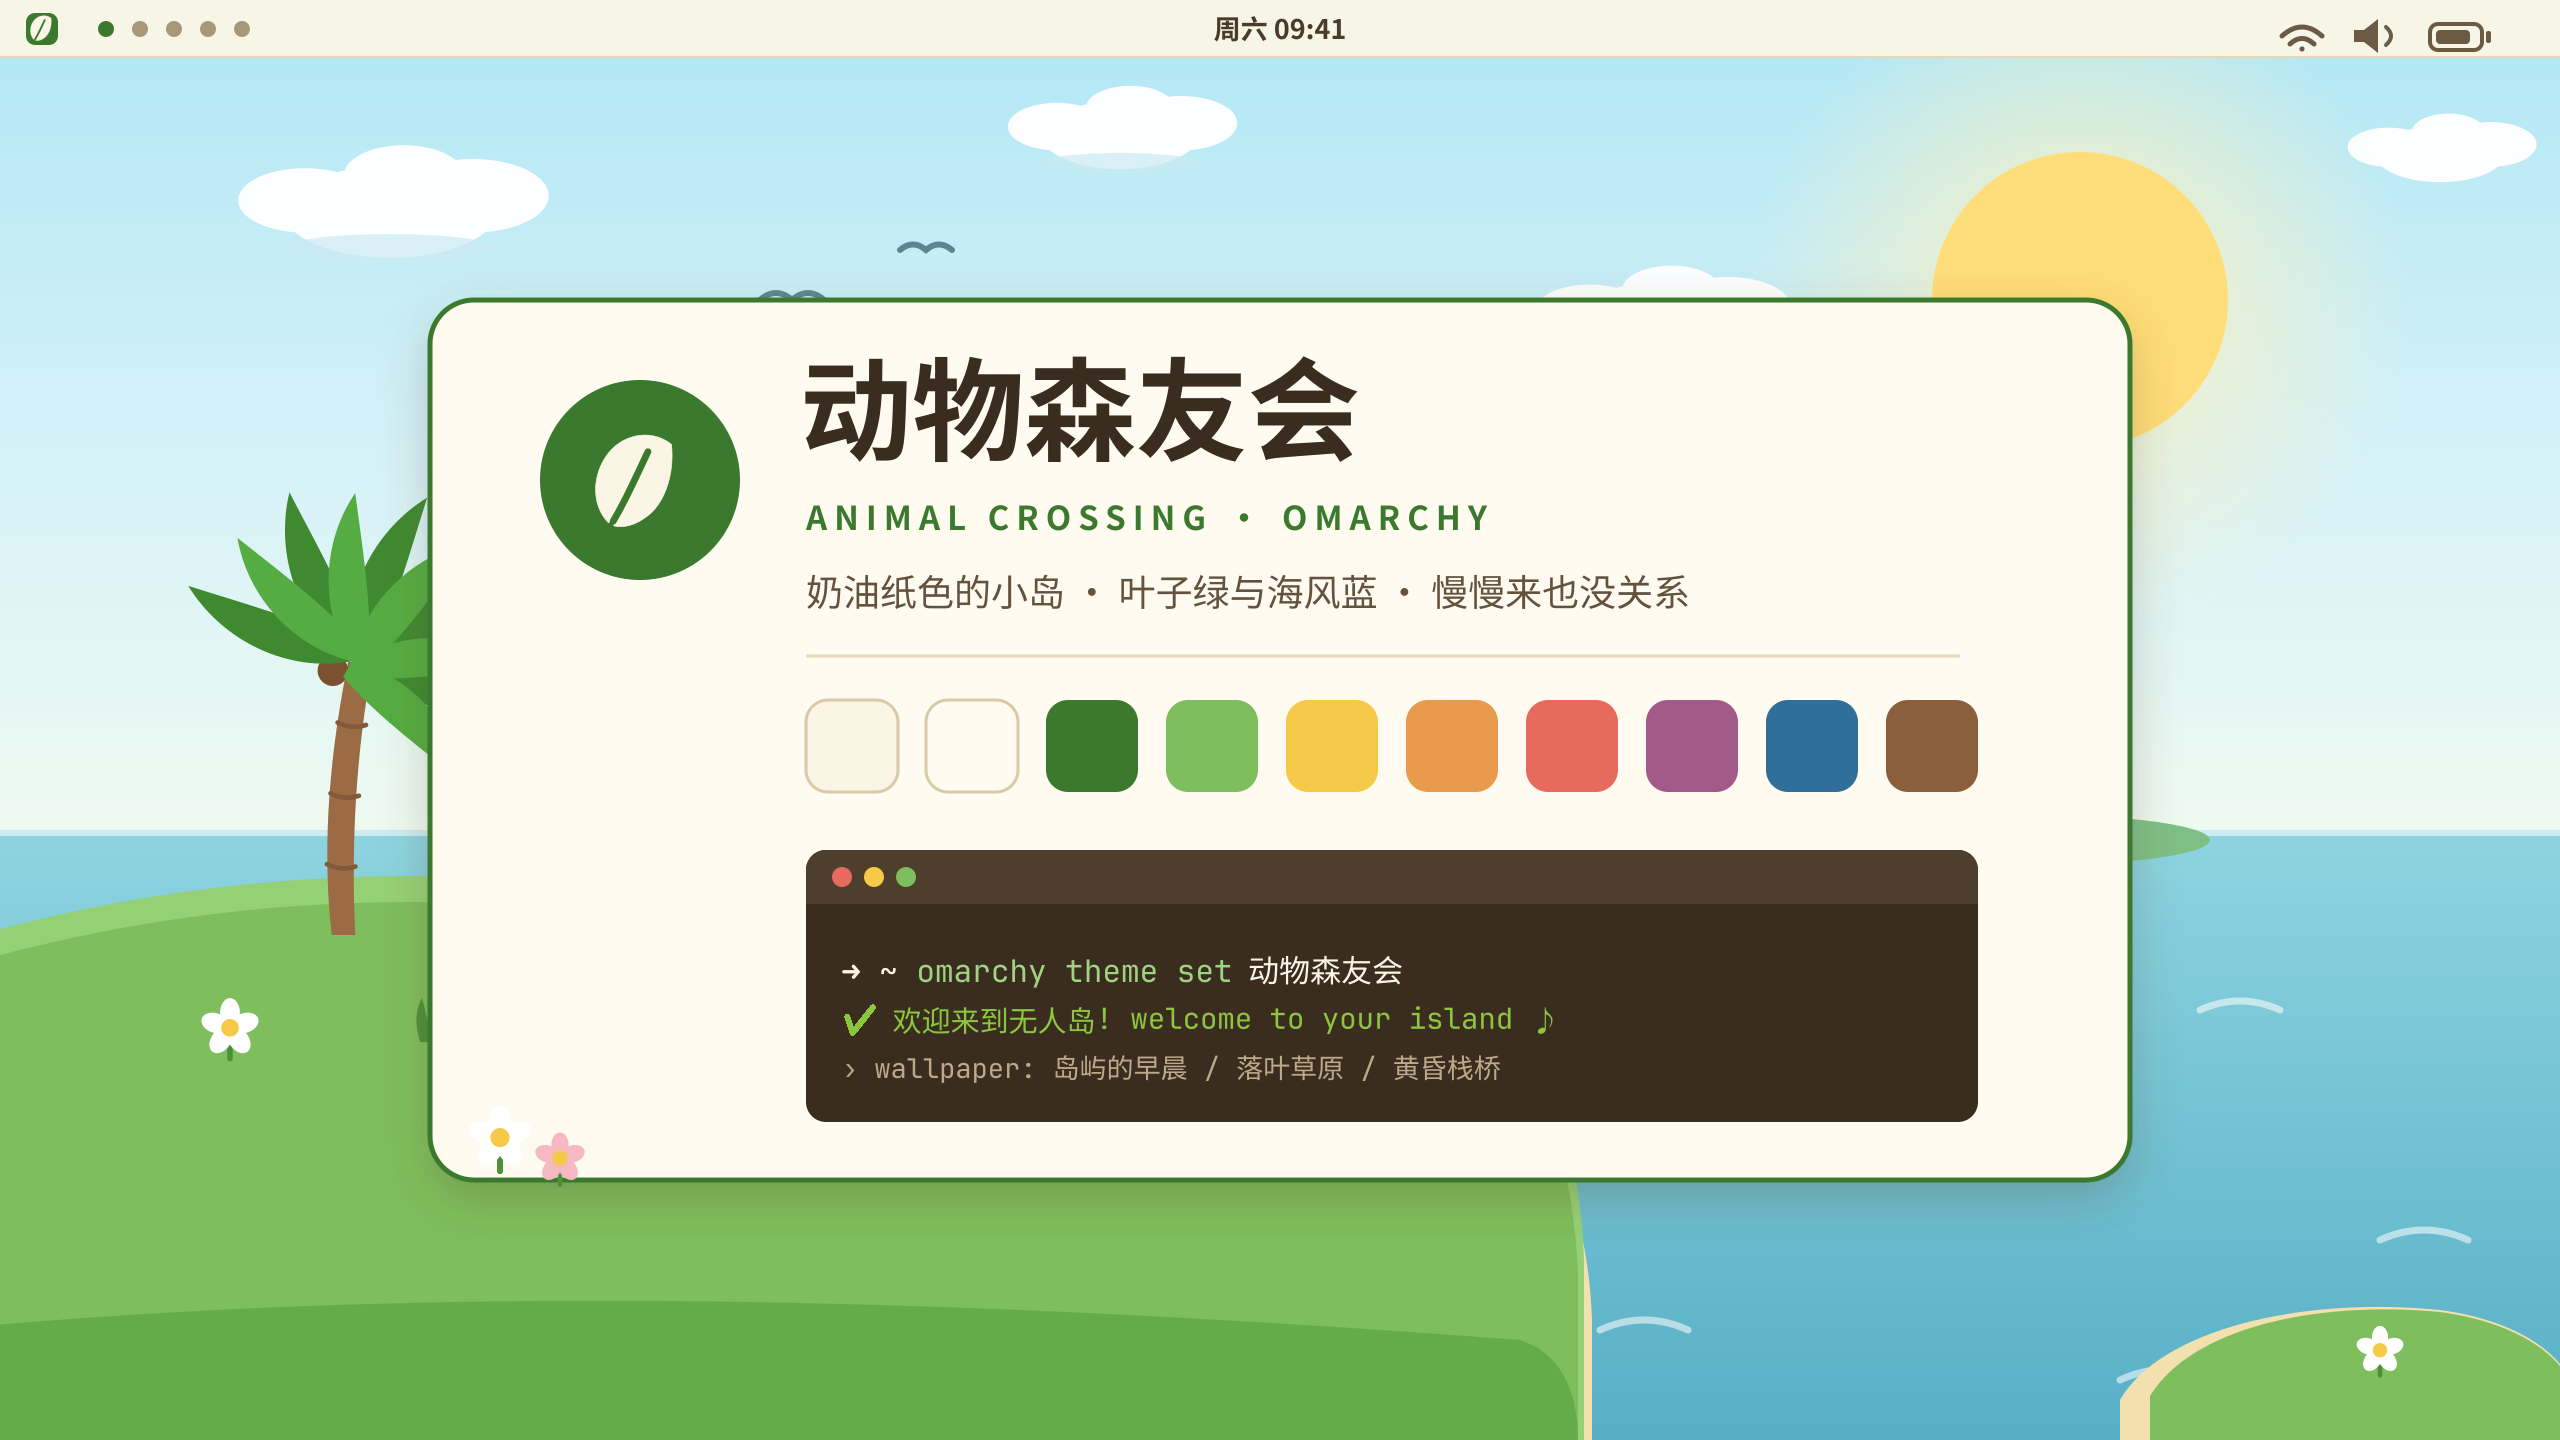
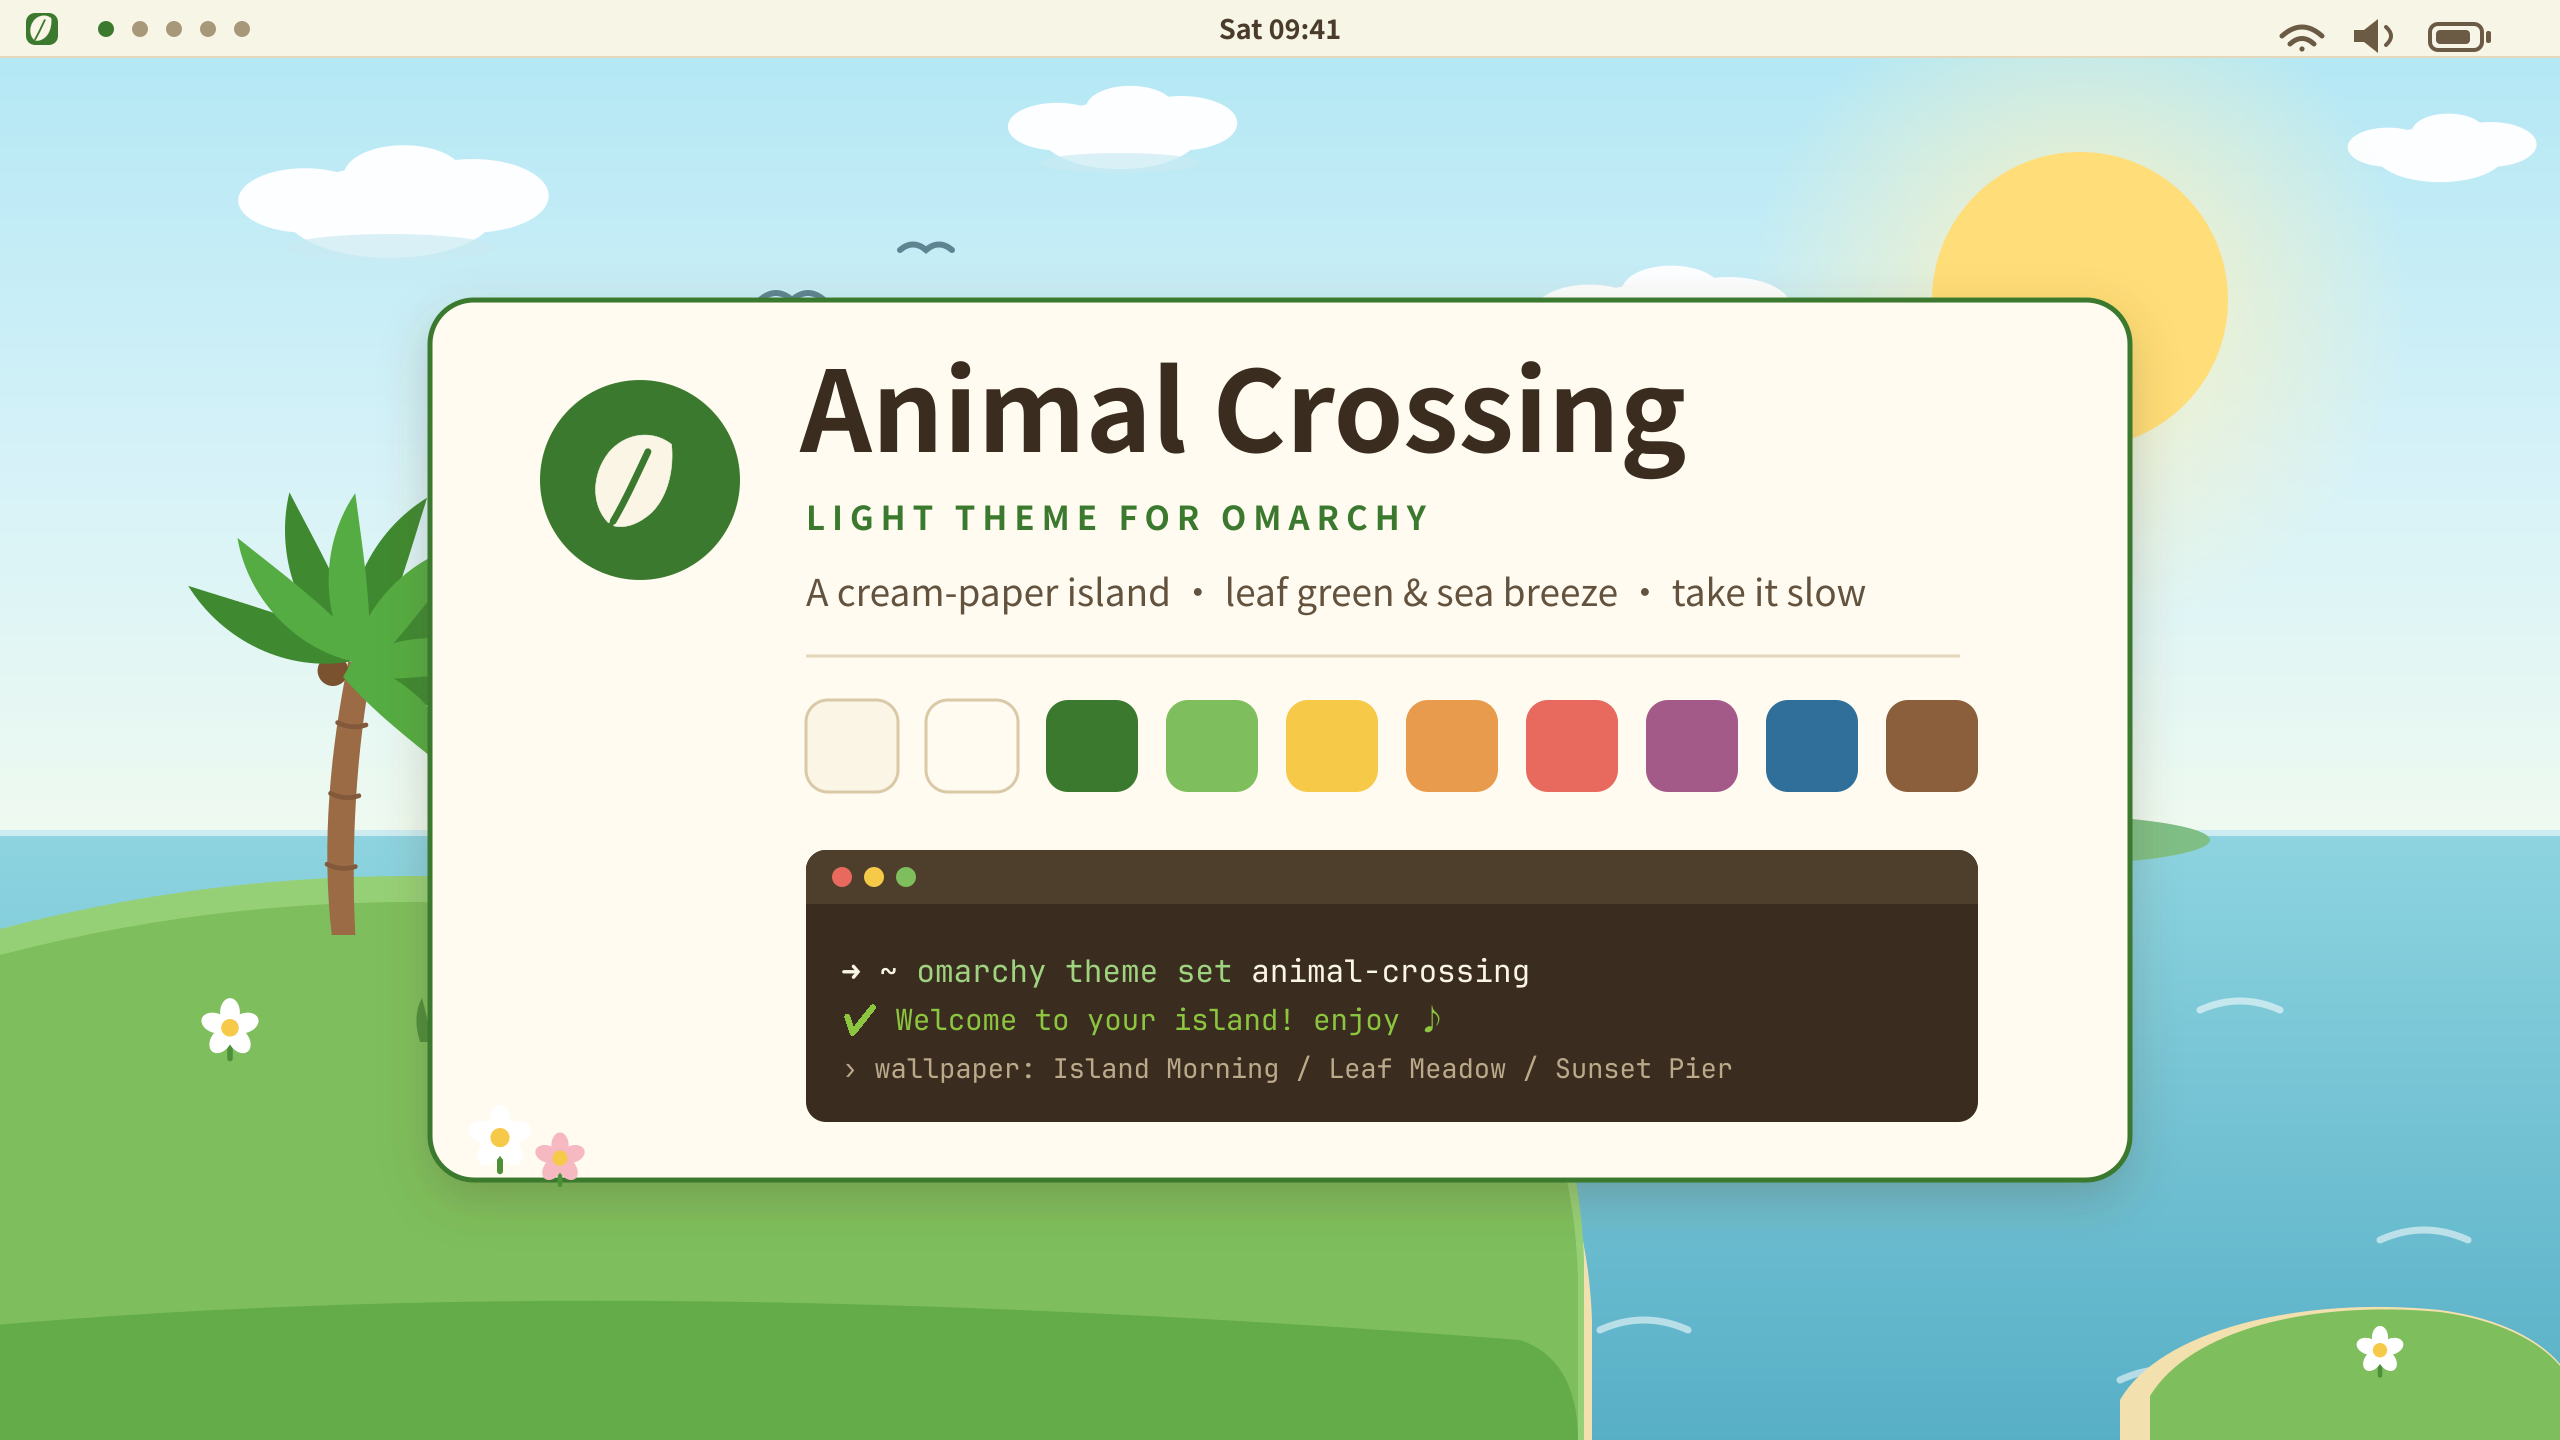
English-first README (zh-CN moved to README.zh-CN.md), English theme names & preview art

Changed region(s): [[0.3125, 0.25, 0.7188, 0.4375], [0.3438, 0.6562, 0.6562, 0.75], [0.4688, 0.0, 0.5312, 0.0312]]

diff --git a/README.md b/README.md
@@ -1,82 +1,77 @@
-# 🍃 动物森友会 · Animal Crossing for Omarchy
+# 🍃 Animal Crossing for Omarchy
 
-一个 **Omarchy** 浅色主题：奶油纸色的底、叶子绿的重点、海风蓝的点缀，还有三张原创的手绘风壁纸。慢一点也没关系。
+A light **Omarchy** theme in cream paper, leaf green and sea-breeze blue — with three original hand-drawn wallpapers. Take it slow.
 
-🌙 **夜间模式**：[omarchy-animal-crossing-night-theme](https://github.com/junbaor/omarchy-animal-crossing-night-theme) — 星夜小岛与萤火虫的姊妹主题。
+🌙 **Night mode**: [omarchy-animal-crossing-night-theme](https://github.com/junbaor/omarchy-animal-crossing-night-theme) — the starlit sister theme.
 
-![主题预览](preview.png)
+Language: **English** · [简体中文](README.zh-CN.md)
 
-## 壁纸
+![Theme preview](preview.png)
 
-| 岛屿的早晨 | 落叶草原 | 黄昏栈桥 |
+## Wallpapers
+
+| Island Morning | Leaf Meadow | Sunset Pier |
 |:---:|:---:|:---:|
-| ![岛屿的早晨](backgrounds/1-island-morning.png) | ![落叶草原](backgrounds/2-leaf-meadow.png) | ![黄昏栈桥](backgrounds/3-sunset-pier.png) |
+| ![Island Morning](backgrounds/1-island-morning.png) | ![Leaf Meadow](backgrounds/2-leaf-meadow.png) | ![Sunset Pier](backgrounds/3-sunset-pier.png) |
 
-切换壁纸：`omarchy theme bg next`
+Cycle them with `omarchy theme bg next`.
 
-## 安装
-
-在终端里运行：
+## Install
 
 ```bash
 omarchy theme install https://github.com/junbaor/omarchy-animal-crossing-theme
+omarchy theme set animal-crossing
 ```
 
-安装后主题名为 `animal-crossing`。想要中文主题名的话：
+## Palette
+
+| Role | Hex | Note |
+|---|---|---|
+| Background | `#FBF5E6` | Cream paper |
+| Accent | `#3B7A2E` | Leaf green (Nook Leaves 🍃) |
+| Foreground | `#4A3B2B` | Warm brown |
+| Blue | `#2F6F99` | Sea breeze |
+| Yellow | `#9C6F0A` | Bell gold (🔔) |
+| Red | `#C34F4B` | Balloon coral |
+| Magenta | `#A35A89` | Petal pink |
+| Brown | `#8B5E3C` | Timber |
+
+Full palette in [colors.toml](colors.toml). Foreground colors are calibrated to WCAG contrast (≥ 4.5:1) so they stay readable on the cream background.
+
+## Customization
+
+1. Edit `~/.config/omarchy/themes/animal-crossing/colors.toml`
+2. Run `omarchy theme refresh`
+
+Terminals, Neovim, btop, VS Code, GTK, fcitx5, menus/notifications/lock screen — everything is generated from `colors.toml` automatically.
+
+## Boot splash
+
+Wear the theme at boot too: menu → Style → Unlock, or
 
 ```bash
-mv ~/.config/omarchy/themes/animal-crossing ~/.config/omarchy/themes/动物森友会
-omarchy theme set 动物森友会
+sudo omarchy-plymouth-set-by-theme animal-crossing
 ```
 
-## 配色
-
-| 角色 | 色值 | 说明 |
-|---|---|---|
-| 背景 | `#FBF5E6` | 奶油纸色 |
-| 强调 | `#3B7A2E` | 叶子绿（Nook Leaves 🍃） |
-| 前景 | `#4A3B2B` | 暖棕 |
-| 蓝 | `#2F6F99` | 海风蓝 |
-| 黄 | `#9C6F0A` | 铃钱金（铃铛 🔔） |
-| 红 | `#C34F4B` | 气球珊瑚红 |
-| 紫 | `#A35A89` | 花瓣紫 |
-| 棕 | `#8B5E3C` | 木材棕 |
-
-完整配色见 [colors.toml](colors.toml)。所有前景色都按 WCAG 对比度（≥ 4.5:1）调过，浅色底下也清晰可读。
-
-## 自定义
-
-1. 编辑 `~/.config/omarchy/themes/<主题名>/colors.toml`
-2. 运行 `omarchy theme refresh` 重新生成所有应用配置
-
-终端、Neovim、btop、VS Code、GTK、fcitx5、菜单/通知/锁屏等配置都会从 `colors.toml` 自动生成，不用手动改。
-
-## 配套主题
-
-- 🌙 夜间版：[omarchy-animal-crossing-night-theme](https://github.com/junbaor/omarchy-animal-crossing-night-theme)
-
-白天用奶油色小岛，晚上切到星夜萤火，`omarchy theme switcher` 一键换。
-
-## 文件结构
+## Files
 
 ```
-├── colors.toml        # 核心配色（其余配置由 Omarchy 模板生成）
-├── backgrounds/       # 三张 2560×1440 原创壁纸
-├── sources/           # 壁纸的 SVG 源文件，欢迎改色再创作
-├── preview.png        # 主题选择器预览图
-├── icons.theme        # 图标包（Yaru-olive）
-├── keyboard.rgb       # 键盘背光颜色
-├── unlock.png         # Plymouth 开机画面 logo（叶绿）
-└── preview-unlock.png # 开机画面预览
+├── colors.toml        # core palette (everything else is generated from it)
+├── backgrounds/       # three original 2560×1440 wallpapers
+├── sources/           # SVG sources of the wallpapers — remix welcome
+├── preview.png        # theme picker preview
+├── icons.theme        # icon pack (Yaru-olive)
+├── keyboard.rgb       # keyboard backlight color
+├── unlock.png         # Plymouth boot logo (leaf green)
+└── preview-unlock.png # boot splash preview
 ```
 
-想让开机画面也变成动森风：菜单 → 样式 → Unlock，或运行
-`sudo omarchy-plymouth-set-by-theme animal-crossing`
+## Related
 
-## 相关链接
+- 🌙 Night: [omarchy-animal-crossing-night-theme](https://github.com/junbaor/omarchy-animal-crossing-night-theme)
+- [Omarchy](https://omarchy.org/)
 
-- [Omarchy](https://omarchy.org/) · [主题文档](https://github.com/basecamp/omarchy)
-- 壁纸为原创矢量插画（SVG 源码在 `sources/`），可自由修改使用
+All wallpapers are original vector art (SVG sources in `sources/`), free to modify and reuse.
 
 ## License
 

diff --git a/README.zh-CN.md b/README.zh-CN.md
@@ -1,0 +1,80 @@
+# 🍃 动物森友会 · Animal Crossing for Omarchy
+
+一个 **Omarchy** 浅色主题：奶油纸色的底、叶子绿的重点、海风蓝的点缀，还有三张原创的手绘风壁纸。慢一点也没关系。
+
+🌙 **夜间模式**：[omarchy-animal-crossing-night-theme](https://github.com/junbaor/omarchy-animal-crossing-night-theme) — 星夜姊妹主题。
+
+语言 / Language: [English](README.md) · **简体中文**
+
+![主题预览](preview.png)
+
+## 壁纸
+
+| 岛屿的早晨 | 落叶草原 | 黄昏栈桥 |
+|:---:|:---:|:---:|
+| ![岛屿的早晨](backgrounds/1-island-morning.png) | ![落叶草原](backgrounds/2-leaf-meadow.png) | ![黄昏栈桥](backgrounds/3-sunset-pier.png) |
+
+切换壁纸：`omarchy theme bg next`
+
+## 安装
+
+```bash
+omarchy theme install https://github.com/junbaor/omarchy-animal-crossing-theme
+omarchy theme set animal-crossing
+```
+
+安装后的主题名是 `animal-crossing`（Omarchy 主题名取自目录名，均为英文）。
+
+## 配色
+
+| 角色 | 色值 | 说明 |
+|---|---|---|
+| 背景 | `#FBF5E6` | 奶油纸色 |
+| 强调 | `#3B7A2E` | 叶子绿（Nook Leaves 🍃） |
+| 前景 | `#4A3B2B` | 暖棕 |
+| 蓝 | `#2F6F99` | 海风蓝 |
+| 黄 | `#9C6F0A` | 铃钱金（🔔） |
+| 红 | `#C34F4B` | 气球珊瑚红 |
+| 紫 | `#A35A89` | 花瓣紫 |
+| 棕 | `#8B5E3C` | 木材棕 |
+
+完整配色见 [colors.toml](colors.toml)。所有前景色都按 WCAG 对比度（≥ 4.5:1）校准，浅色底上也清晰可读。
+
+## 自定义
+
+1. 编辑 `~/.config/omarchy/themes/animal-crossing/colors.toml`
+2. 运行 `omarchy theme refresh`
+
+终端、Neovim、btop、VS Code、GTK、fcitx5、菜单/通知/锁屏等配置都会从 `colors.toml` 自动生成，不用手动改。
+
+## 开机画面
+
+让 Plymouth 开机画面也统一风格：菜单 → 样式 → Unlock，或
+
+```bash
+sudo omarchy-plymouth-set-by-theme animal-crossing
+```
+
+## 文件结构
+
+```
+├── colors.toml        # 核心配色（其余配置由 Omarchy 模板生成）
+├── backgrounds/       # 三张 2560×1440 原创壁纸
+├── sources/           # 壁纸的 SVG 源文件，欢迎改色再创作
+├── preview.png        # 主题选择器预览图
+├── icons.theme        # 图标包（Yaru-olive）
+├── keyboard.rgb       # 键盘背光颜色
+├── unlock.png         # Plymouth 开机画面 logo（叶绿）
+└── preview-unlock.png # 开机画面预览
+```
+
+## 相关链接
+
+- 🌙 夜间版：[omarchy-animal-crossing-night-theme](https://github.com/junbaor/omarchy-animal-crossing-night-theme)
+- [Omarchy](https://omarchy.org/)
+
+壁纸为原创矢量插画（SVG 源码在 `sources/`），可自由修改使用。
+
+## License
+
+[MIT](LICENSE)
